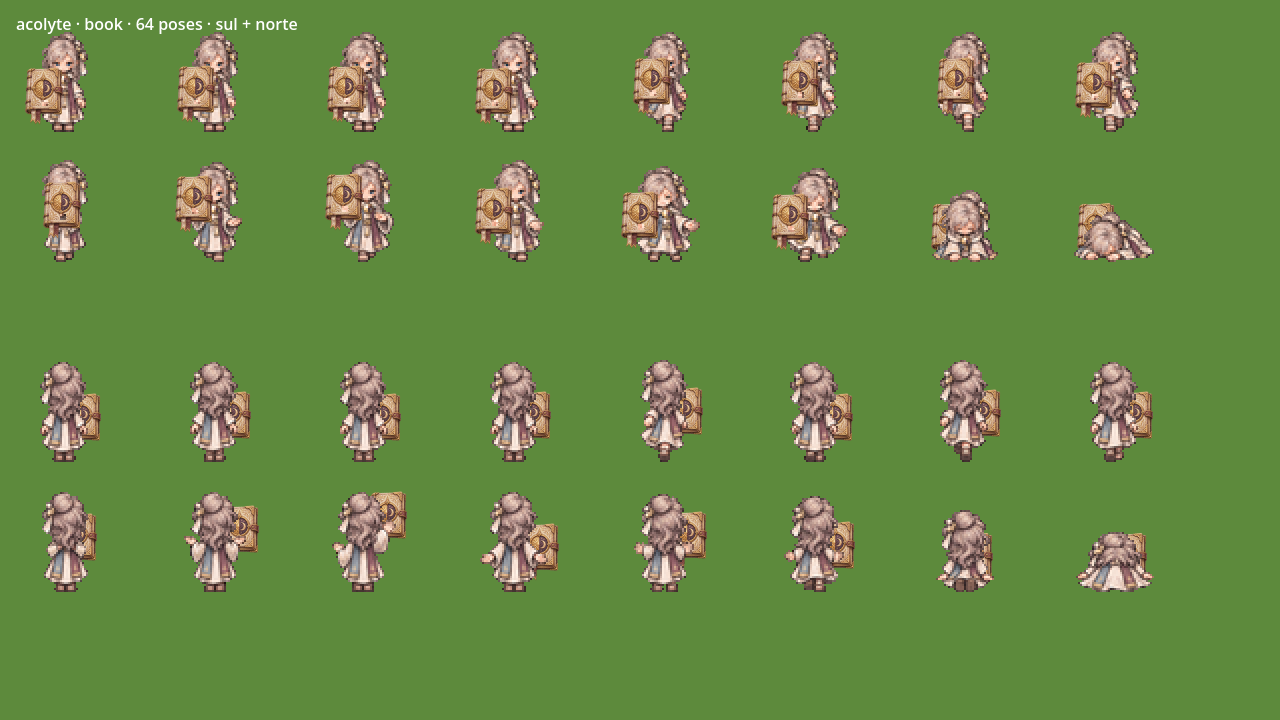
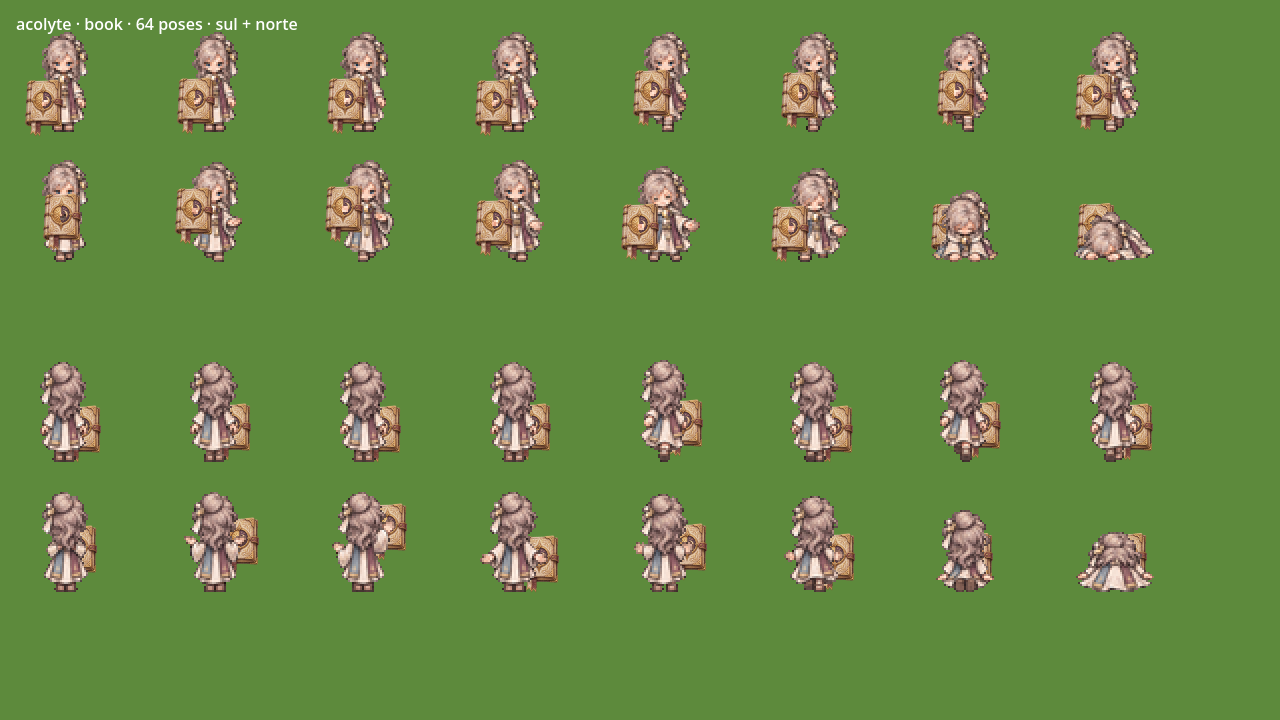
fix(e10a-t8): lower the prayer book grip to (10,12), authorised by the user
The 20x30 book with grip (10,18) reached the chin of the Acolyte body and
covered the face and torso. Only the grip changes (hand_rigs.json, PROFILES,
the grip expectation of equipment_items_test); size stays tied to the 80x120
art. Acolyte captures and receipt refreshed.

diff --git a/docs/epics/e10a/t8_delivery.md b/docs/epics/e10a/t8_delivery.md
@@ -87,7 +87,14 @@ corpo escolhido pelo mesmo caminho do jogo) com o item da T9 na mão principal, 
   (`zoom_priest_scepter_idle.png`).
 - Os 112 grips vivos de cada corpo caem em pixel opaco dentro do recorte de 3×3 dedos (teste), e os três itens chegam
   ao ponto da palma em todas as combinações (3 itens × 3 corpos × 56 poses, teste).
-- **Grips não editados:** `assets/art/equipment/hand_rigs.json` é da T9; ver Limitações 1.
+- **Grip do livro (transferência autorizada pelo usuário em 18/11, depois da primeira entrega):** com o grip (10,18) da T9
+  o livro 20×30 subia até o queixo e cobria o rosto e o torso no sul e no leste. Troquei **só o grip** de `prayer_book`
+  de (10,18) para (10,12), nos três lugares que a T9 mantém espelhados: `assets/art/equipment/hand_rigs.json`,
+  `PROFILES` de `scripts/actors/equipment_attachment_visual.gd` e `EXPECTED` de `tests/e10a/equipment_items_test.gd`
+  (a expectativa do grip, número exato). O tamanho lógico 20×30 não muda (o teste da T9 exige o tamanho ×4 igual ao PNG
+  de 80×120). Resultado nas poses paradas: o livro fica na altura do quadril, longe do rosto, e passa 4 px do chão
+  (`zoom_acolyte_book_idle.png`); nas poses de ataque, com a mão erguida, ainda encosta no rosto. O cetro e o relicário
+  não mudaram.
 
 ## Testes e regressão por impacto
 
@@ -118,10 +125,16 @@ calibração (64 quadros, 112 grips, convenção sul/norte, mortes); dados de en
 peça de cabeça nas 64 poses; 3 itens × 3 corpos × 56 poses de grip; corpos vizinhos intactos e manifesto de outra
 identidade recusado.
 
+Depois do grip do livro refiz a captura do Acólito (sonda do Acólito: 821 checks, 0 falhas) e rodei de novo
+`family_bodies_test` (6.313, 0), `equipment_hand_alignment_test` (4.593, 0), `equipment_items_test` (E09 244 e E10a 301, 0),
+`e08_equipment_art_test` (100.863, 0), `e08_directional_rig_compatibility_test` (83.328, 0) e `e08_directional_units_test`
+(77.804, 0): mesmos contadores e mesmos hashes de log da primeira rodada, sem `SCRIPT ERROR`.
+
 ### Ajustes de enumeração (A15 do E09), cada um com número exato
 
 | Arquivo | Antes → depois |
 |---|---|
+| `tests/e10a/equipment_items_test.gd`, só `EXPECTED[prayer_book]` | grip `Vector2(10, 18)` → `Vector2(10, 12)` (acompanha a troca do grip autorizada pelo usuário) |
 | `tests/e08_equipment_art_test.gd`, só em `head_fit_checks` | lista `kinds` acrescida de `acolyte`, `priest`, `cultist`; `data.classes.size()==14` → `==17` (as 14 peças ficam em 14) |
 
 Nenhum outro teste legado quebrou: `e08_directional_units/content/rig_compatibility/npcs` varrem as pastas por
@@ -145,10 +158,10 @@ por mim, a 2× e 3×.
[14 lines of base64/hex data omitted]
@@ -163,17 +176,15 @@ por mim, a 2× e 3×.
[7 lines of base64/hex data omitted]
 ## Limitações e pendências
 
-1. **Livro grande demais no corpo do Acólito (decisão de arquitetura).** O livro 20×30 com o grip em (10,18) (T9)
-   sobe até a altura do queixo: no sul e no leste cobre o canto do rosto e boa parte do torso do lado da mão
-   (`zoom_acolyte_book_idle.png`). A mão está certa; o que falta é o item. Proposta: transferir a mim, ou à T9, um
-   ajuste de `hand_rigs.json` e `PROFILES` (grip mais baixo, por exemplo (10,24), ou props menores, 16×24); não editei
-   por ser da T9. O relicário pende abaixo dos pés do corpo no sul e no leste; lê-se como corrente longa e não colide
-   com o rosto, mas a escala é da T9 e fica para o aceite visual.
+1. **Livro e relicário (escala de T9).** Com o grip ajustado (seção 5) o livro ainda é grande para o corpo: nas poses de
+   ataque encosta no rosto e na parada passa 4 px abaixo do chão. Reduzir o prop exigiria regenerar o PNG (o teste da T9
+   amarra tamanho lógico ao arquivo); fica para o aceite visual. O relicário pende abaixo dos pés no sul e no leste;
+   lê-se como corrente longa e não colide com o rosto, mas a escala é da T9.
 2. **Ângulo do cetro nos outros portadores.** O ângulo de slot do Sacerdote vale para qualquer item que ele empunhe:
    o livro e o relicário ficam inclinados nele (−0,35 no sul e −0,45 no leste), sem problema para o relicário (pende) e
    com leve tombo no livro. O caminho completo é aceitar ids de prop em `WEAPON_KEYS`/`angle_overrides`
